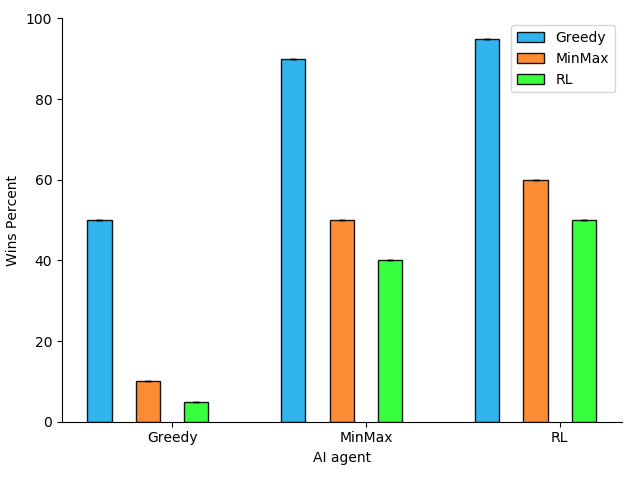
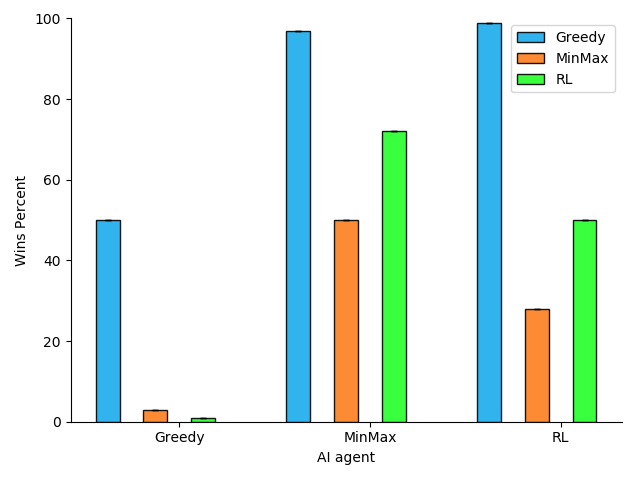
latest analysis code with values from games

diff --git a/ai_util.js b/ai_util.js
@@ -12,7 +12,7 @@ class AiUtil
 		switch (modelName)
 		{
 			case MODEL_Q_LEARNING:
-				$.get("octi_board_game/data/" + MODEL_Q_LEARNING + ".json", function(data) {
+				$.get("/octi_board_game/data/" + MODEL_Q_LEARNING + ".json", function(data) {
 					FILE_POLICY_DATA = data;
 				});
 		}

diff --git a/results_visualization/plot_manager.py b/results_visualization/plot_manager.py
@@ -87,8 +87,8 @@ def plot_paper_graph():
     multi_bar_with_error(
         labels=['Greedy', 'MinMax', 'RL'],
         x_groups=['Player {}'.format(i + 1) for i in range(5)],
-        y_list=[[0.5, 0.5, 0.5, 0.5, 0.5], [0.5, 0.5, 0.5, 0.5, 0.5],
-                [0.5, 0.5, 0.5, 0.5, 0.5]],
+        y_list=[[0.4, 0.2, 0.1, 0, 0], [0.7, 0.5, 0.4, 0.4, 0.2],
+                [0.9, 0.7, 0.5, 0.4, 0.2]],
         error=[[0, 0, 0, 0, 0], [0, 0, 0, 0, 0], [0, 0, 0, 0, 0]],
         y_range_axis=(0, 1),
         x_name='AI agent',
@@ -102,7 +102,7 @@ def plot_paper_graph():
     multi_bar_with_error(
         labels=['Greedy', 'MinMax', 'RL'],
         x_groups=['Greedy', 'MinMax', 'RL'],
-        y_list=[[50, 90, 95], [10, 50, 60], [5, 40, 50]],
+        y_list=[[50, 97, 99], [3, 50, 28], [1, 72, 50]],
         error=[[0, 0, 0], [0, 0, 0], [0, 0, 0]],
         y_range_axis=(0, 100),
         x_name='AI agent',
